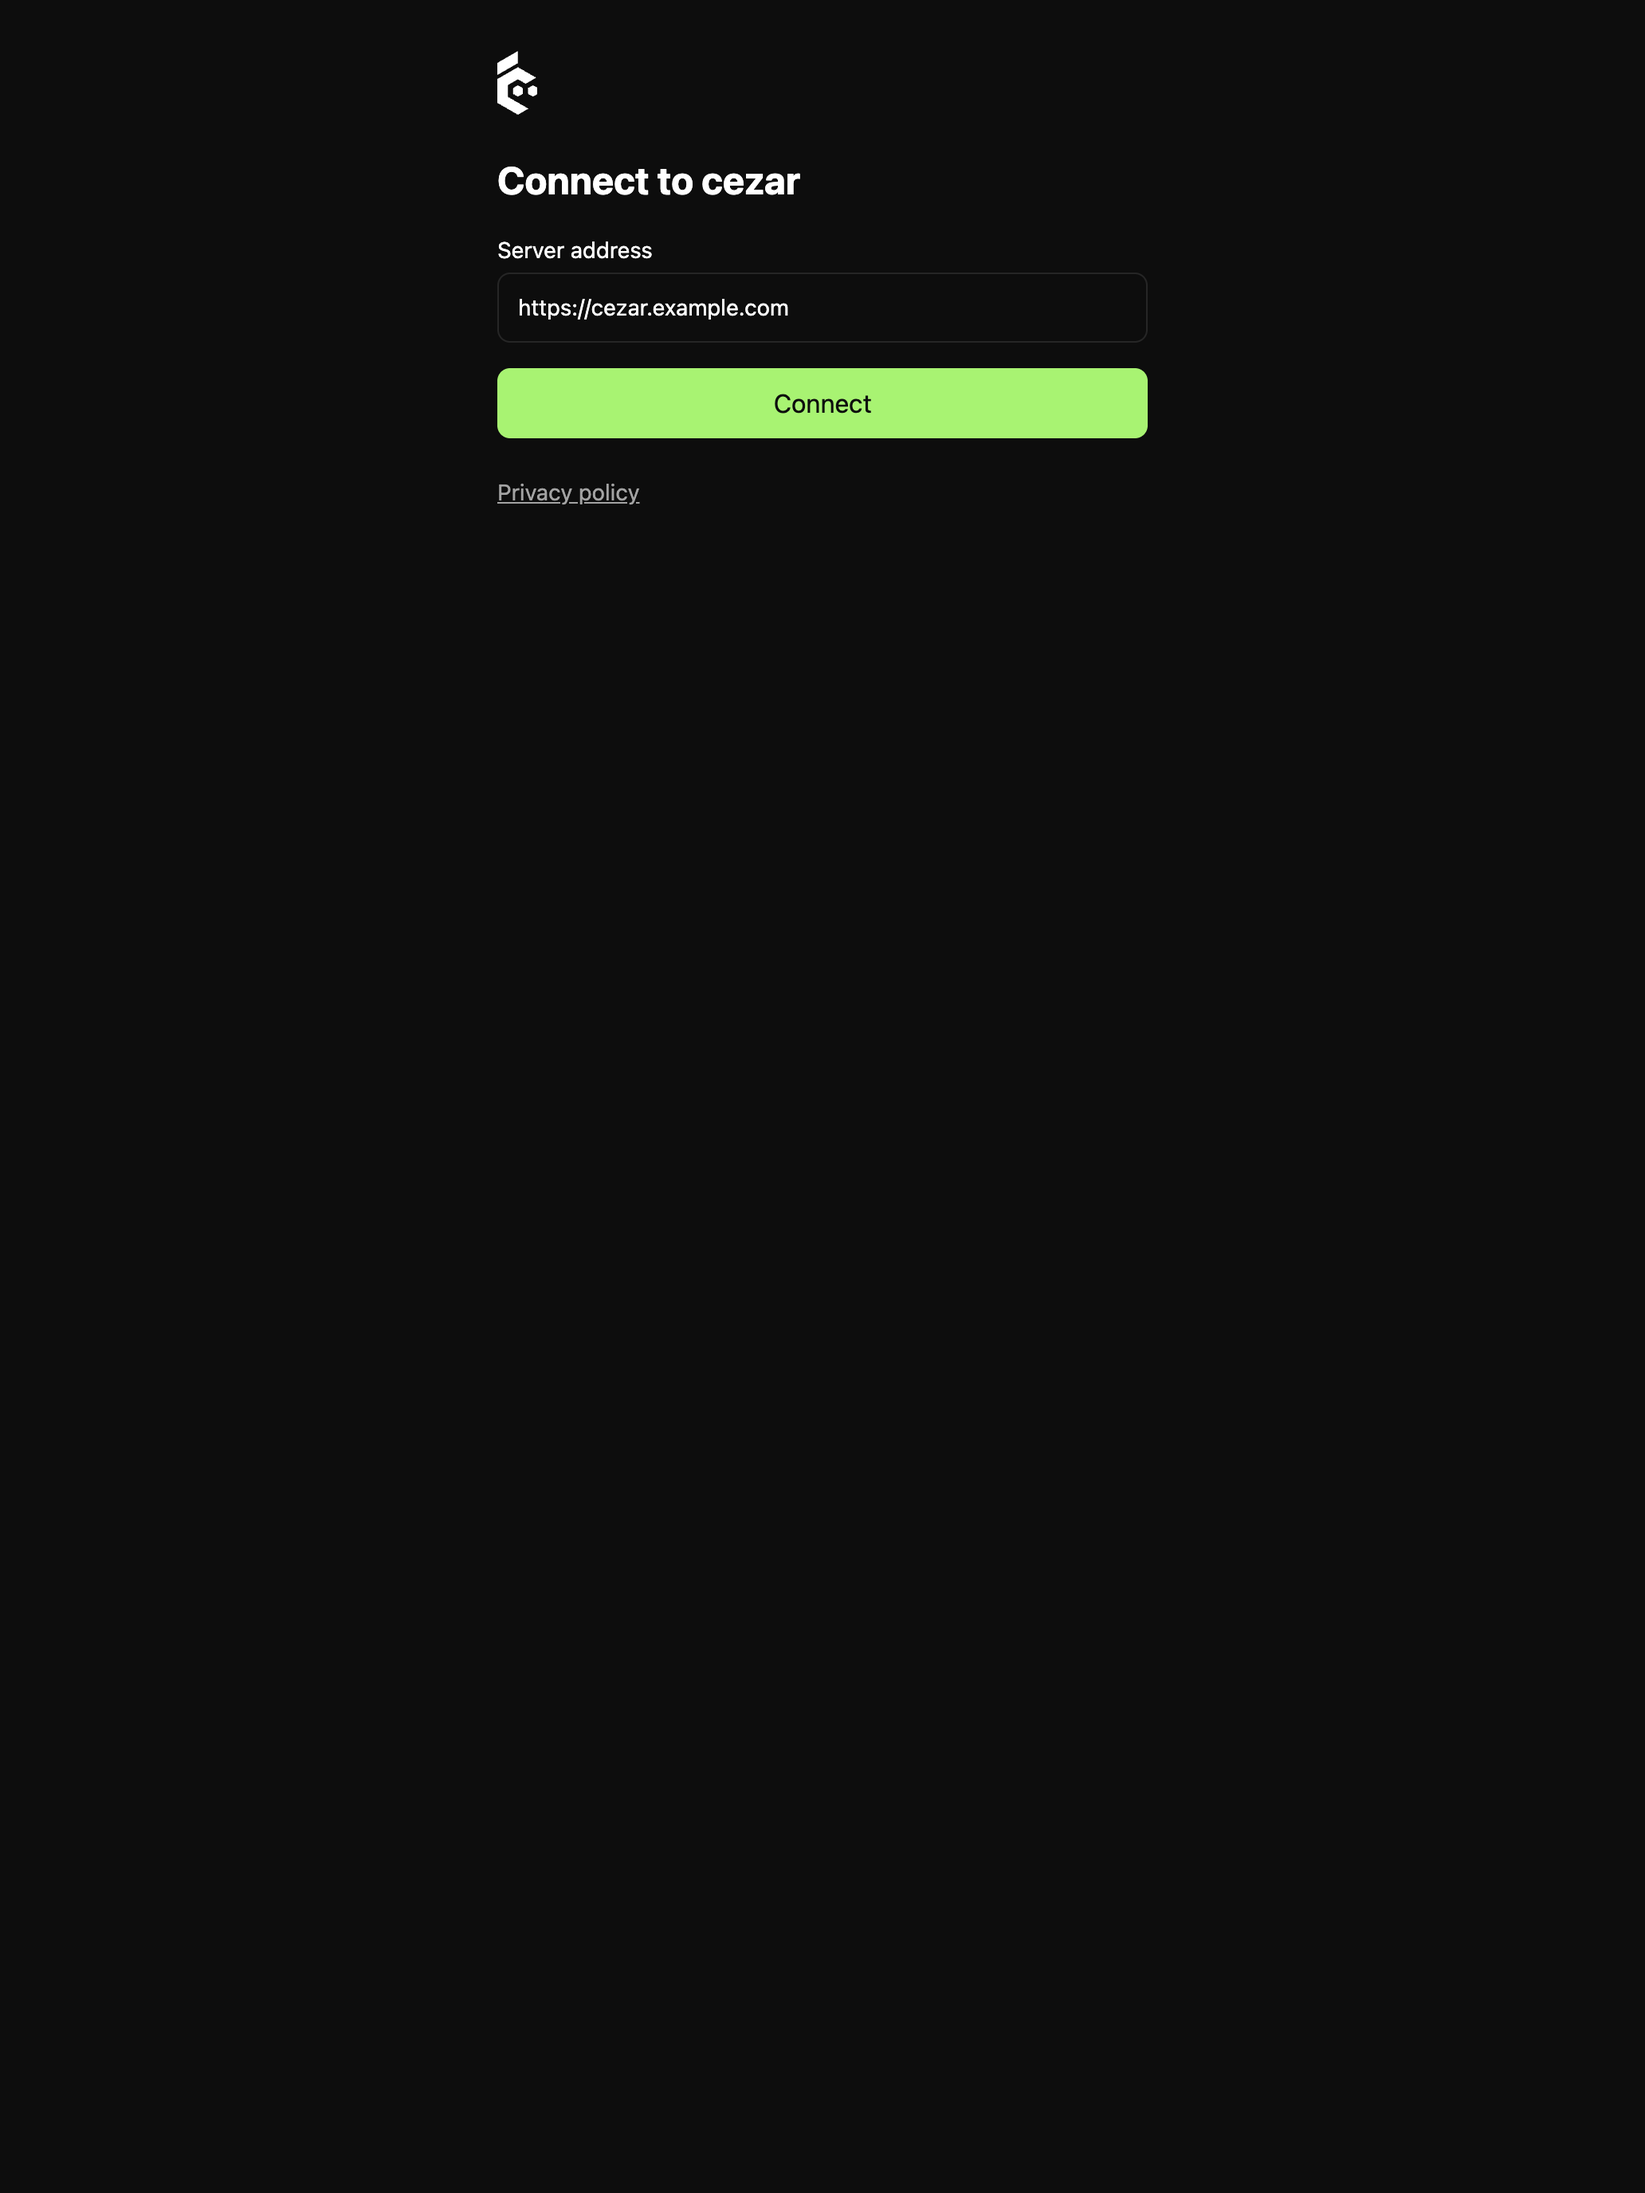
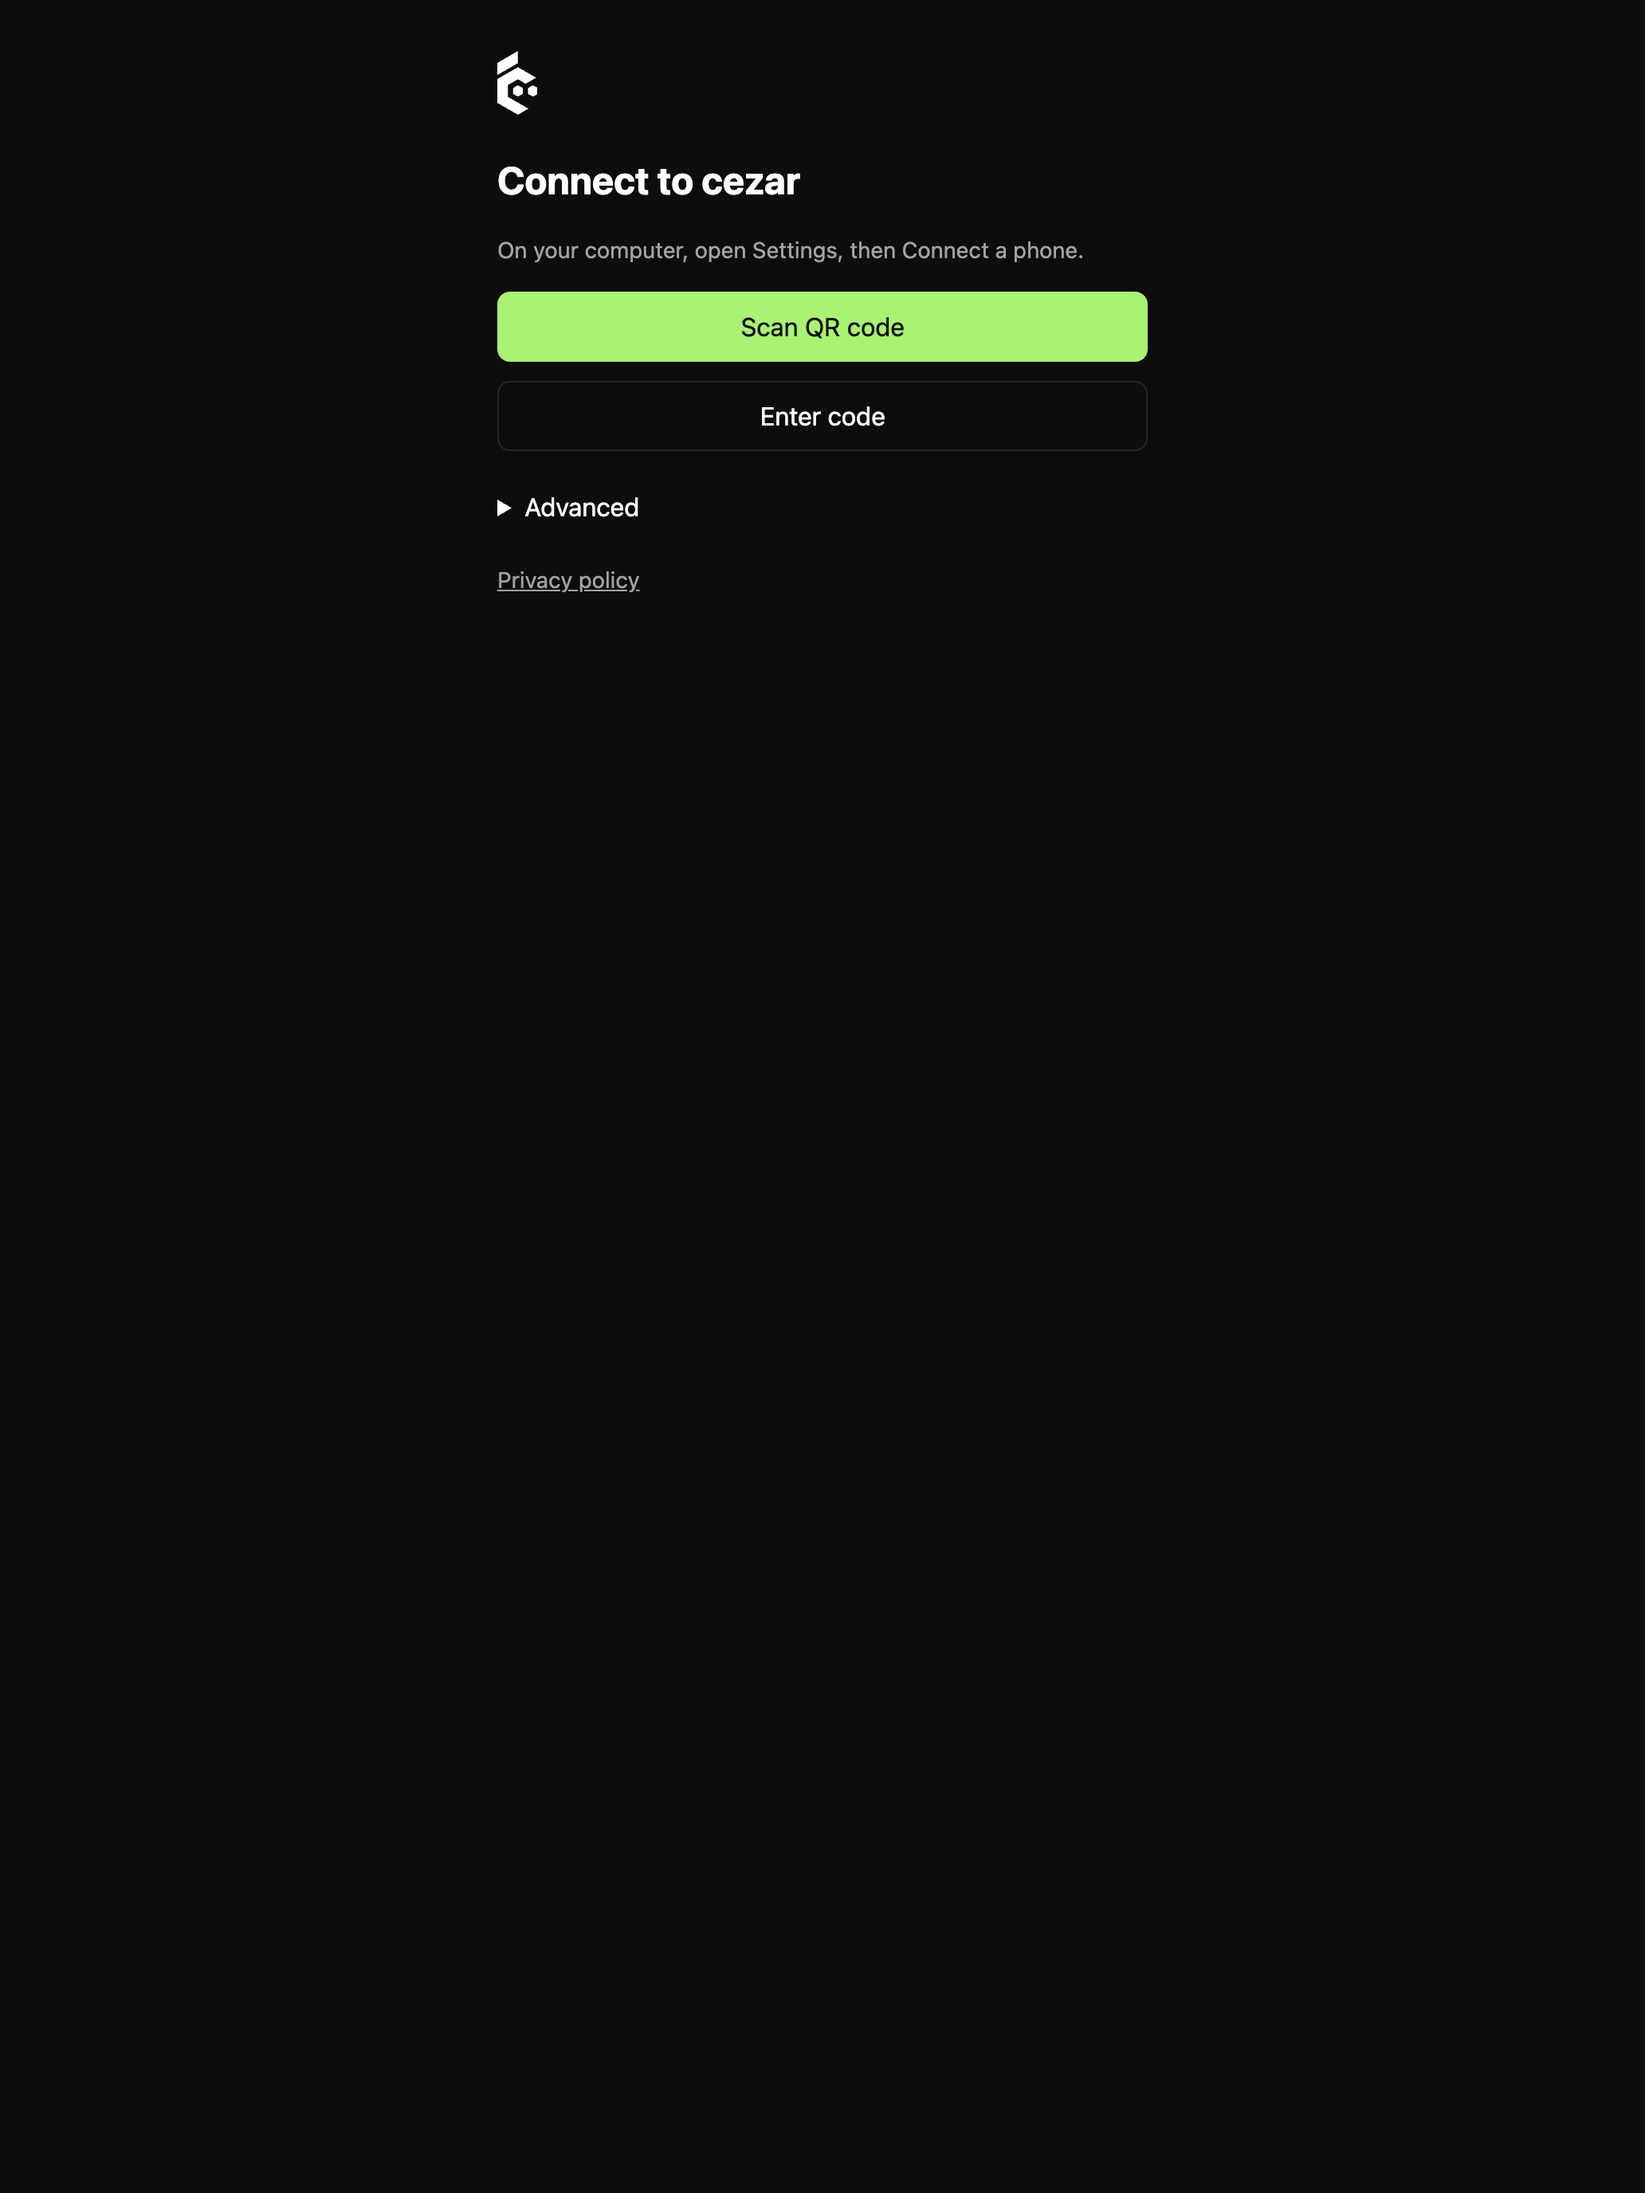
feat(mobile): iOS push entitlement, privacy manifest Device ID, iOS pairing in store assets

Changed region(s): [[0.2791, 0.0938, 0.7132, 0.2812]]

diff --git a/packages/mobile/connect/connect.js b/packages/mobile/connect/connect.js
@@ -10,7 +10,7 @@ let context = {};
 let cameFrom = null;
 // What Back does on the screen drawn now: the arrow, Android's Back and iOS's edge swipe all call it.
 let back = null;
-// Android only for now. iOS keeps the URL form until its client compiles.
+// Native reports it: true once the app has a relay client.
 let pairing = false;
 let lock = null;
 let relayDefault;

diff --git a/packages/mobile/README.md b/packages/mobile/README.md
@@ -144,7 +144,7 @@ is requested, while the switch and Stage 1 work as above. For Stage 2, a maintai
 3. Downloads its `google-services.json` into `packages/mobile/android/app/`. It is not a secret, but
    it is gitignored: do not commit it until Open Mercato owns the Firebase project. The build applies
    the google-services plugin only when the file exists.
-4. Gives the relay (`patzick/rome`) a service account key from the **same** Firebase project:
+4. Gives the relay (`open-mercato/rome`) a service account key from the **same** Firebase project:
    Project settings → Service accounts → Generate new private key, then
    `npx wrangler secret put FCM_SERVICE_ACCOUNT_JSON < key.json`. The relay also needs
    `GRANT_SEAL_KEY`, which seals the grants. Delete the downloaded key file afterwards.
@@ -174,10 +174,10 @@ Where it differs from Android:
 - **URLSession always offers `permessage-deflate`.** It cannot be removed, so the header is sent
   empty and a `101` naming any extension is refused (§ 3). It cannot read a refused upgrade's body, so a
   `503` falls back to `Retry-After` or jitter.
-- **Push** is APNs. Without the Push Notifications capability registration fails and push stays
-  off: Stage 1 still works. To turn Stage 2 on, add the capability in Xcode (it writes
-  `aps-environment` to an entitlements file), and give the relay an APNs key for the bundle ID
-  `com.openmercato.cezar.mobile`. The relay's payload carries `s` at the top level, beside `aps`.
+- **Push** is APNs. `App/App.entitlements` asks for `aps-environment`, so the App ID needs the Push
+  Notifications capability; if registration still fails, push stays off and Stage 1 still works. Stage 2
+  needs an APNs key at the relay for the bundle ID `com.openmercato.cezar.mobile`. The app reads `s`
+  at the top level of the payload, beside `aps`, so the relay must send it there.
 - No debug pairing route yet: pair with the camera, or type the code.
 
 ## Icons and splash

diff --git a/packages/mobile/store/screenshots/README.md b/packages/mobile/store/screenshots/README.md
@@ -11,9 +11,9 @@ node packages/mobile/store/scripts/screenshots.mjs --only graphics,connect --con
 ```
 
 The connect scenes need the relay pairing screens, so run them from the top of the mobile stack, or
-pass `--connect` a `packages/mobile/connect` directory that has them (`--ios-pairing` also shows them
-on iOS, once the iOS app can pair). The cockpit scenes boot this repo's cezar with `CEZ_DRY_RUN=1` in
-a throwaway `HOME` and `CEZ_HOME`, seed a demo shop project and a manager, and stop it afterwards.
+pass `--connect` a `packages/mobile/connect` directory that has them; both platforms show pairing. The
+cockpit scenes boot this repo's cezar with `CEZ_DRY_RUN=1` in a throwaway `HOME` and `CEZ_HOME`, seed a
+demo shop project and a manager, and stop it afterwards.
 
 | Set | Pixels | Store slot |
 | --- | --- | --- |
@@ -30,7 +30,7 @@ a throwaway `HOME` and `CEZ_HOME`, seed a demo shop project and a manager, and s
 | `02-task-live` | A running task's live chat |
 | `03-manager` | The Manager answering "what needs me" |
 | `04-connect` | The connect screen |
-| `05-pair-code` (Android) / `05-sign-in` (iOS) | Typing a pairing code / signing in to a direct server |
+| `05-pair-code` | Typing a pairing code |
 | `06-servers` | The server list with notifications and the app lock |
 
-The Android `06-servers` shows the default relay address, `rome.cezar.run`; retake it if that changes.
+`06-servers` shows the default relay address, `rome.cezar.run`; retake it if that changes.

diff --git a/packages/mobile/store/data-safety.md b/packages/mobile/store/data-safety.md
@@ -67,10 +67,11 @@ used to track across apps or websites, and the app never shows the App Tracking 
 
 Before the first iOS submission:
 
-- These answers describe Android. iOS has no relay client or push until the iOS half of #1901
-  lands; re-read its code and redo this table for the build you submit.
+- On iOS the Device ID row is the relay device ID, public keys and the APNs token; there is no
+  Firebase. Re-read the iOS code against this table for the build you submit.
 - Apple's privacy manifest is `ios/App/App/PrivacyInfo.xcprivacy`: no tracking, no tracking domains,
-  and `UserDefaults` for the app's own flags (reason `CA92.1`). Its collected data types must match the
+  Device ID collected for app functionality, not linked and not tracking, and `UserDefaults` for the
+  app's own flags (reason `CA92.1`). Its collected data types must match the
   table above; re-read it, and the manifest of any SDK the build adds, before each submission.
 - **Export compliance** (asked for every build, or set `ITSAppUsesNonExemptEncryption` in
   `Info.plist`): the app implements end-to-end encryption with standard algorithms (Noise with

diff --git a/RELEASING-MOBILE.md b/RELEASING-MOBILE.md
@@ -123,8 +123,8 @@ be updated by one. Say that wherever the APK is linked. Publish the draft GitHub
 ## 3. iOS, once
 
 1. **Identifier**: https://developer.apple.com/account/resources/identifiers > **+** > App IDs > App,
-   explicit bundle ID `com.openmercato.cezar.mobile`, description `cezar`. Tick **Push Notifications**
-   when iOS push lands.
+   explicit bundle ID `com.openmercato.cezar.mobile`, description `cezar`. Tick **Push Notifications**:
+   the app's `App.entitlements` asks for `aps-environment`, and signing fails without it.
 2. **App record**: App Store Connect > **Apps > + > New App**: iOS, name `cezar` (if taken, `cezar:
    coding agents`), primary language English (U.S.), the bundle ID above, SKU `cezar-mobile`, full
    access.

diff --git a/packages/mobile/store/listing.md b/packages/mobile/store/listing.md
@@ -90,5 +90,4 @@ First release: pair with cezar by QR code or typed code, connect directly to a h
 - Notifications while the app is closed need Firebase on Android (`GOOGLE_SERVICES_JSON`) and push on
   iOS. If a build ships without them, change "the phone tells you" to "the app tells you while it is
   open", or Apple's guideline 2.3.1 (accurate metadata) applies.
-- The iOS app has no relay client until #1901's iOS half lands. Do not submit this text for an iOS
-  build that cannot pair by QR code.
+- Both apps pair by QR code. Do not submit this text for a build that cannot.

diff --git a/packages/mobile/store/reviewer-notes.md b/packages/mobile/store/reviewer-notes.md
@@ -20,8 +20,7 @@ by `packages/mobile/demo/` (README there). Before pasting, replace `cezar-demo.e
 
 ## The notes text
 
-Delete the "Optional: pairing" part if the build has no relay client (iOS until #1901's iOS half
-lands) or the demo runs with `DEMO_RELAY=0`.
+Delete the "Optional: pairing" part if the demo runs with `DEMO_RELAY=0`.
 
 <!-- reviewer-notes -->
 ```text
